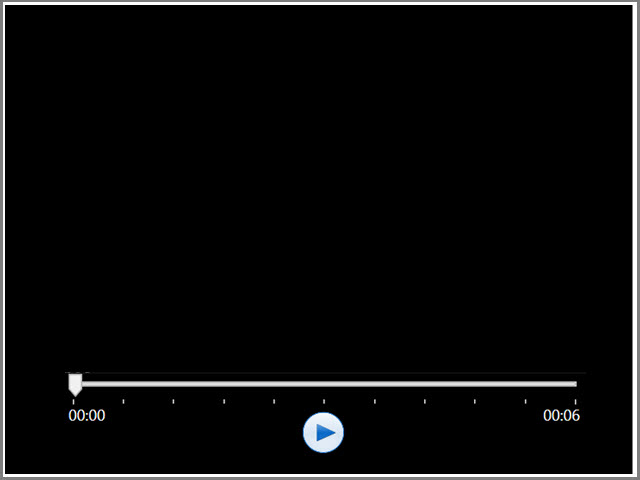
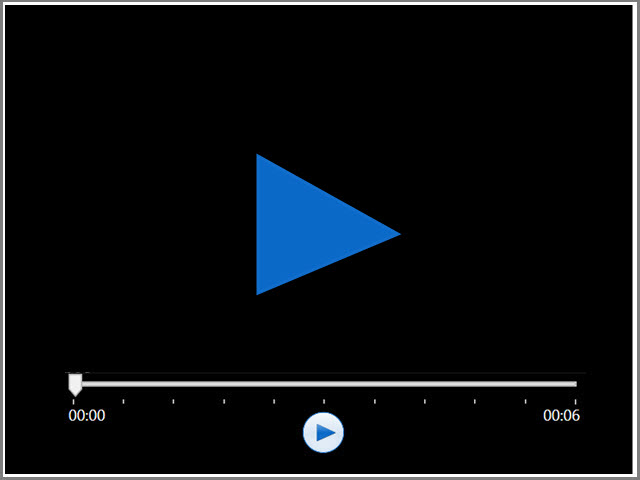
Basics for Video Quickshow inserted Basics for video magnifier inserted

Changed region(s): [[0.375, 0.3125, 0.625, 0.625]]

diff --git a/Timelapse2/Timelapse/Controls/VideoPlayer.xaml b/Timelapse2/Timelapse/Controls/VideoPlayer.xaml
@@ -4,6 +4,7 @@
              xmlns:mc="http://schemas.openxmlformats.org/markup-compatibility/2006" 
              xmlns:d="http://schemas.microsoft.com/expression/blend/2008" 
              xmlns:local="clr-namespace:Timelapse.Controls"
+             xmlns:xctk="http://schemas.xceed.com/wpf/xaml/toolkit"
              mc:Ignorable="d" 
              d:DesignHeight="300" d:DesignWidth="300">
     <UserControl.Resources>
@@ -47,7 +48,23 @@
             <RowDefinition Height="*" />
             <RowDefinition Height="Auto" />
         </Grid.RowDefinitions>
-        <MediaElement Name="Video" LoadedBehavior="Manual" ScrubbingEnabled="True" MediaEnded="Video_MediaEnded" MediaOpened="Video_MediaOpened" Unloaded="Video_Unloaded" Grid.Row="0" HorizontalAlignment="Stretch" VerticalAlignment="Top" />
+        <Image Source="pack://application:,,/Resources/BlankVideo.jpg"/>
+        <MediaElement Name="Video" LoadedBehavior="Manual" ScrubbingEnabled="True" MediaEnded="Video_MediaEnded" MediaOpened="Video_MediaOpened" Unloaded="Video_Unloaded" Grid.Row="0" HorizontalAlignment="Stretch" VerticalAlignment="Top">
+            <xctk:MagnifierManager.Magnifier>
+                <xctk:Magnifier x:Name="_magnifier"
+                               Background="White"
+                               Radius="120"
+                               ZoomFactor="0.4"
+                               FrameType="Circle"
+                               BorderBrush="#FFC72035"
+                               BorderThickness="2"
+                               Width="180"
+                               Height="280"
+                               IsUsingZoomOnMouseWheel="True"
+                               ZoomFactorOnMouseWheel="0.1"
+                               Visibility="Collapsed"/>
+            </xctk:MagnifierManager.Magnifier>
+        </MediaElement>
         <StackPanel Grid.Row="1">
             <StackPanel Orientation="Vertical" HorizontalAlignment="Center">
                 <Slider Name="VideoPosition"  ValueChanged="VideoPosition_ValueChanged" PreviewMouseDown="VideoPosition_PreviewMouseDown" AutoToolTipPlacement="BottomRight" AutoToolTipPrecision="3" IsMoveToPointEnabled="True" MinWidth="400" HorizontalContentAlignment="Stretch" VerticalAlignment="Center" TickPlacement="BottomRight" />

diff --git a/Timelapse2/Timelapse/Database/VideoRow.cs b/Timelapse2/Timelapse/Database/VideoRow.cs
@@ -43,7 +43,11 @@ namespace Timelapse.Database
                 // MediaPlayer is not actually synchronous despite exposing synchronous APIs, so wait for it get the video loaded.  Otherwise
                 // the width and height properties are zero and only black pixels are drawn.  The properties will populate with just a call to
                 // Open() call but without also Play() only black is rendered
-                int timesTried = 1000;
+                // TODO ASAP The solution for rapidly showing videos needs further work. 
+                // ONLOAD It currently loads a blank video image when scouring thorugh the videos 
+                // Rapid navigation: loads a blank video image in the background, then the video on pause
+                // Multiview: very slow as only loads the  video.
+                int timesTried = (displayIntent== ImageDisplayIntentEnum.Persistent) ? 1000 : 0;
                 while ((mediaPlayer.NaturalVideoWidth < 1) || (mediaPlayer.NaturalVideoHeight < 1))
                 {
                     // back off briefly to let MediaPlayer do its loading, which typically takes perhaps 75ms
@@ -51,7 +55,7 @@ namespace Timelapse.Database
                     Thread.Sleep(Constant.ThrottleValues.PollIntervalForVideoLoad);
                     if (timesTried-- <= 0)
                     {
-                        return Constant.ImageValues.BlankVideo.Value;
+                        return GetBlankVideo(desiredWidth);
                     }
                 }
 
@@ -111,8 +115,28 @@ namespace Timelapse.Database
             {
                 // We don't print the exception // (Exception exception)
                 TraceDebug.PrintMessage(String.Format("VideoRow/LoadBitmap: Loading of {0} failed in Video - LoadBitmap. {0}", imageFolderPath));
+                return GetBlankVideo(desiredWidth);
+            }
+        }
+
+        private BitmapImage GetBlankVideo(Nullable<int> desiredWidth)
+        {
+            if (desiredWidth == null )
+            {
+                System.Diagnostics.Debug.Print("Null");
                 return Constant.ImageValues.BlankVideo.Value;
             }
+
+            var uri = new Uri("pack://application:,,,/Resources/BlankVideo.jpg");
+
+            BitmapImage bitmap = new BitmapImage();
+            bitmap.BeginInit();
+            bitmap.DecodePixelWidth = desiredWidth.Value;
+            //bitmap.CacheOption = bitmapCacheOption;
+            bitmap.UriSource = uri;
+            bitmap.EndInit();
+            bitmap.Freeze();
+            return bitmap;
         }
     }
 }

diff --git a/Timelapse2/Timelapse/Controls/VideoPlayer.xaml.cs b/Timelapse2/Timelapse/Controls/VideoPlayer.xaml.cs
@@ -2,6 +2,7 @@
 using System.Windows;
 using System.Windows.Controls;
 using System.Windows.Input;
+using System.Windows.Media;
 using System.Windows.Threading;
 using Timelapse.Util;
 
@@ -17,14 +18,22 @@ namespace Timelapse.Controls
         {
             this.InitializeComponent();
             this.isProgrammaticUpdate = false;
-            this.positionUpdateTimer = new DispatcherTimer();
-            this.positionUpdateTimer.Interval = TimeSpan.FromMilliseconds(250.0);
+            this.positionUpdateTimer = new DispatcherTimer
+            {
+                Interval = TimeSpan.FromMilliseconds(250.0)
+            };
             this.positionUpdateTimer.Tick += this.Timer_Tick;
 
             // Timer used to automatically start playing the videos after a modest interval
-            this.autoPlayDelayTimer = new DispatcherTimer();
-            this.autoPlayDelayTimer.Interval = TimeSpan.FromMilliseconds(300.0);
+            this.autoPlayDelayTimer = new DispatcherTimer
+            {
+                Interval = TimeSpan.FromMilliseconds(300.0)
+            };
             this.autoPlayDelayTimer.Tick += this.AutoPlayDelayTimer_Tick;
+
+            // TODO ASAP Maybe redo all magnification lenses - its currently hidden, but we want to enable it.
+            TranslateTransform tt = new TranslateTransform(100, -100);
+            this._magnifier.RenderTransform = tt;
 
             this.IsEnabled = false;
         }

diff --git a/Timelapse2/Timelapse/Constant.cs b/Timelapse2/Timelapse/Constant.cs
@@ -347,6 +347,9 @@ namespace Timelapse
             public static readonly Lazy<BitmapImage> FileNoLongerAvailable = ImageValues.Load("FileNoLongerAvailable.jpg");
             public static readonly Lazy<BitmapImage> NoFilesAvailable = ImageValues.Load("NoFilesAvailable.jpg");
             public static readonly Lazy<BitmapImage> BlankVideo = ImageValues.Load("BlankVideo.jpg");
+            public static readonly Lazy<BitmapImage> BlankVideo512 = ImageValues.Load("BlankVideo512.jpg");
+            public static readonly Lazy<BitmapImage> BlankVideo256 = ImageValues.Load("BlankVideo256.jpg");
+            public static readonly Lazy<BitmapImage> BlankVideo128 = ImageValues.Load("BlankVideo128.jpg");
             public static readonly Lazy<BitmapImage> FileAlreadyLoaded = ImageValues.Load("FileAlreadyLoaded.jpg");
 
             private static Lazy<BitmapImage> Load(string fileName)

diff --git a/Timelapse2/Timelapse/Controls/DataEntryUtcOffset.cs b/Timelapse2/Timelapse/Controls/DataEntryUtcOffset.cs
@@ -71,8 +71,8 @@ namespace Timelapse.Controls
             }
             else
             {
-                // Hack: The content control doesn't update if the value hasn't changed.
-                // However, this means that if we are displaying the ellipses in the textbox, it won't 
+                // This hack is done so that the content control updates if the value hasn't changed.
+                // This means that if we are displaying the ellipses in the textbox, it won't 
                 // redisplay the old value on selection or navigation if it hasn't actually changed
                 // So we set it twice: the first time with a different value to guarantee that it has changed, and the second time with the
                 // desired value ot actually display it

diff --git a/Timelapse2/Timelapse/Controls/DataEntryCounter.cs b/Timelapse2/Timelapse/Controls/DataEntryCounter.cs
@@ -145,7 +145,7 @@ namespace Timelapse.Controls
             // As we want it to also show both ellipsis and blanks, we have to coerce it to show those.
             // Ideally, we should modify the IntegerUpDown control to allow ellipsis and blanks instead of these hacks.
 
-            // Hack: Access the textbox portion of the IntegerUpDown, so we can write directly into it if needed.
+            // We access the textbox portion of the IntegerUpDown, so we can write directly into it if needed.
             WatermarkTextBox textBox = (WatermarkTextBox)this.ContentControl.Template.FindName("PART_TextBox", this.ContentControl);
 
             // A null value indicates we should show the ellipsis symbol in the textbox. 

diff --git a/Timelapse2/Timelapse/TimelapseWindow.xaml.cs b/Timelapse2/Timelapse/TimelapseWindow.xaml.cs
@@ -28,9 +28,6 @@ namespace Timelapse
     /// </summary>
     public partial class TimelapseWindow : Window, IDisposable
     {
-        // SAULXXX TESTING EPISODES
-        
-
         #region Variables and Properties
         private DataEntryHandler dataHandler;
         private bool disposed;
@@ -916,6 +913,5 @@ namespace Timelapse
         }
         #endregion
 
- 
     }
 }
